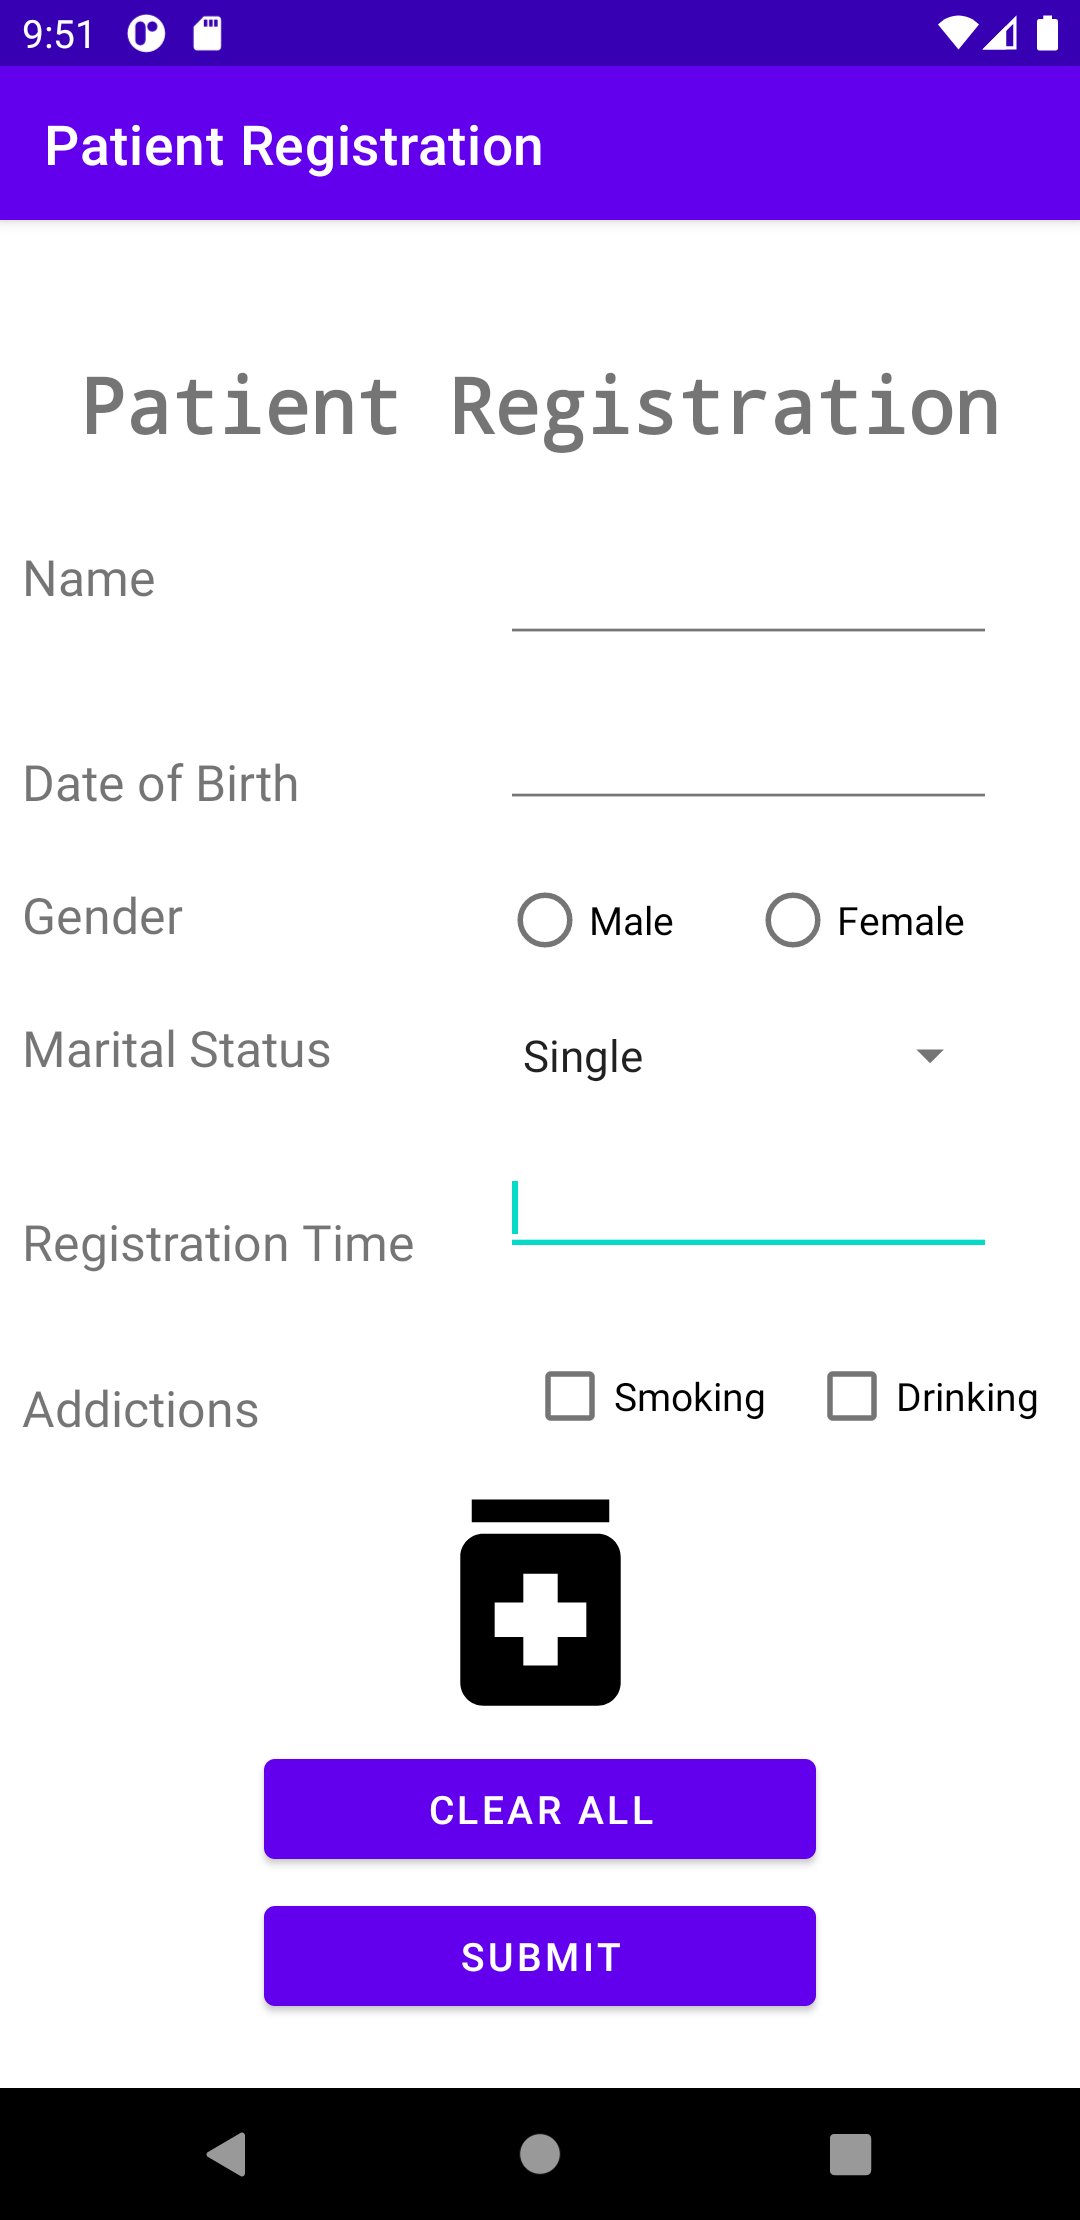
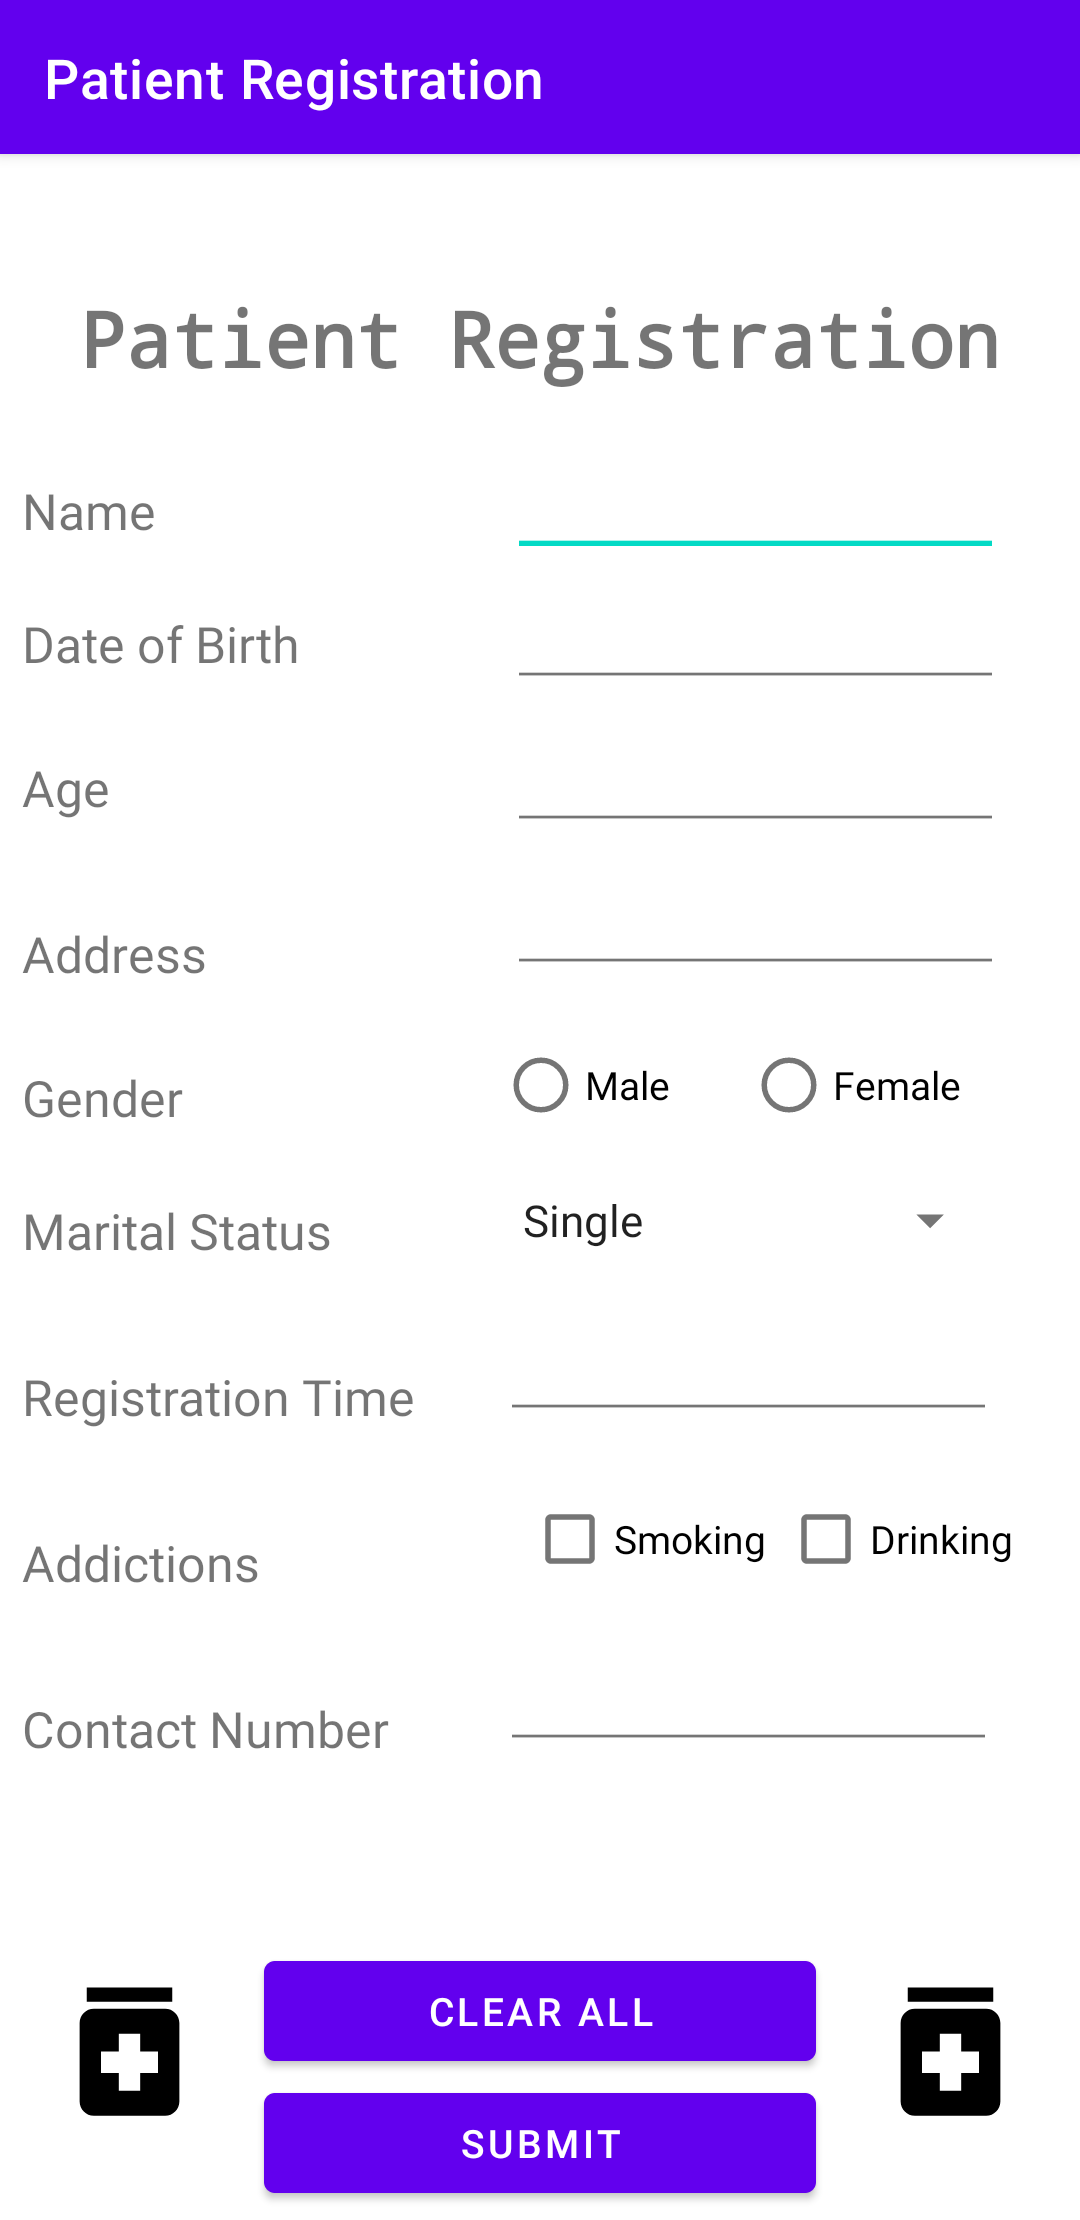
Added more user fields

diff --git a/PatientRegistration/app/src/main/java/com/example/patientregistration/MainActivity.java b/PatientRegistration/app/src/main/java/com/example/patientregistration/MainActivity.java
@@ -4,18 +4,13 @@ import androidx.appcompat.app.AppCompatActivity;
 
 import android.content.Intent;
 import android.os.Bundle;
-import android.text.Editable;
 import android.view.View;
 import android.widget.Button;
 import android.widget.CheckBox;
 import android.widget.EditText;
 import android.widget.RadioButton;
 import android.widget.RadioGroup;
-import android.widget.SeekBar;
 import android.widget.Spinner;
-import android.widget.TextView;
-
-import java.util.Random;
 
 public class MainActivity extends AppCompatActivity {
 
@@ -31,6 +26,9 @@ public class MainActivity extends AppCompatActivity {
         final EditText timeField = findViewById(R.id.timeField);
         final CheckBox smokingCheck = findViewById(R.id.smokingCheckBox);
         final CheckBox drinkingCheck = findViewById(R.id.drinkingCheckBox);
+        final EditText ageField = findViewById(R.id.ageField);
+        final EditText phoneField = findViewById(R.id.phoneField);
+        final EditText addressField = findViewById(R.id.addrField);
         final Button clearButton = findViewById(R.id.resetButton);
         final Button submitButton = findViewById(R.id.submitButton);
 
@@ -69,6 +67,10 @@ public class MainActivity extends AppCompatActivity {
                     patientAddictions += "-NIL-";
                 }
 
+                String patientPhone = phoneField.getText().toString();
+                String patientAddress = addressField.getText().toString();
+                int patientAge = Integer.parseInt(ageField.getText().toString());
+
                 //Transfer the contents to the SubmitActivity class using an Intent
                 Intent submitIntent = new Intent(getApplicationContext(), SubmitActivity.class);
                 submitIntent.putExtra("patientName", patientName);
@@ -77,6 +79,9 @@ public class MainActivity extends AppCompatActivity {
                 submitIntent.putExtra("patientMarital", patientMarital);
                 submitIntent.putExtra("patientTime", patientTime);
                 submitIntent.putExtra("patientAddictions", patientAddictions);
+                submitIntent.putExtra("patientAge", patientAge);
+                submitIntent.putExtra("patientPhone", patientPhone);
+                submitIntent.putExtra("patientAddress", patientAddress);
 
                 startActivity(submitIntent);
             }
@@ -93,6 +98,9 @@ public class MainActivity extends AppCompatActivity {
                 timeField.setText("");
                 smokingCheck.setChecked(false);
                 drinkingCheck.setChecked(false);
+                ageField.setText("");
+                addressField.setText("");
+                phoneField.setText("");
             }
         });
 

diff --git a/PatientRegistration/app/src/main/java/com/example/patientregistration/SubmitActivity.java b/PatientRegistration/app/src/main/java/com/example/patientregistration/SubmitActivity.java
@@ -20,6 +20,9 @@ public class SubmitActivity extends AppCompatActivity {
         final TextView maritalView = findViewById(R.id.maritalText);
         final TextView timeView = findViewById(R.id.timeText);
         final TextView addictionsView = findViewById(R.id.addictionsText);
+        final TextView addressView = findViewById(R.id.addressText);
+        final TextView phoneView = findViewById(R.id.phoneText);
+        final TextView ageView = findViewById(R.id.ageText);
 
         //Get the current class' intent and obtain the stored key-value pairs from MainActivity
         Intent submitIntent = getIntent();
@@ -30,6 +33,11 @@ public class SubmitActivity extends AppCompatActivity {
         String patientMarital = submitIntent.getStringExtra("patientMarital");
         String patientTime = submitIntent.getStringExtra("patientTime");
         String patientAddictions = submitIntent.getStringExtra("patientAddictions");
+        String patientAddresss = submitIntent.getStringExtra("patientAddress");
+        String patientPhone = submitIntent.getStringExtra("patientPhone");
+        int patientAge = submitIntent.getIntExtra("patientAge", 0);
+
+
 
         nameView.setText(patientName);
         dateView.setText(patientDate);
@@ -37,5 +45,9 @@ public class SubmitActivity extends AppCompatActivity {
         maritalView.setText(patientMarital);
         timeView.setText(patientTime);
         addictionsView.setText(patientAddictions);
+        addressView.setText(patientAddresss);
+        phoneView.setText(patientPhone);
+        ageView.setText(Integer.toString(patientAge));
+
     }
 }
